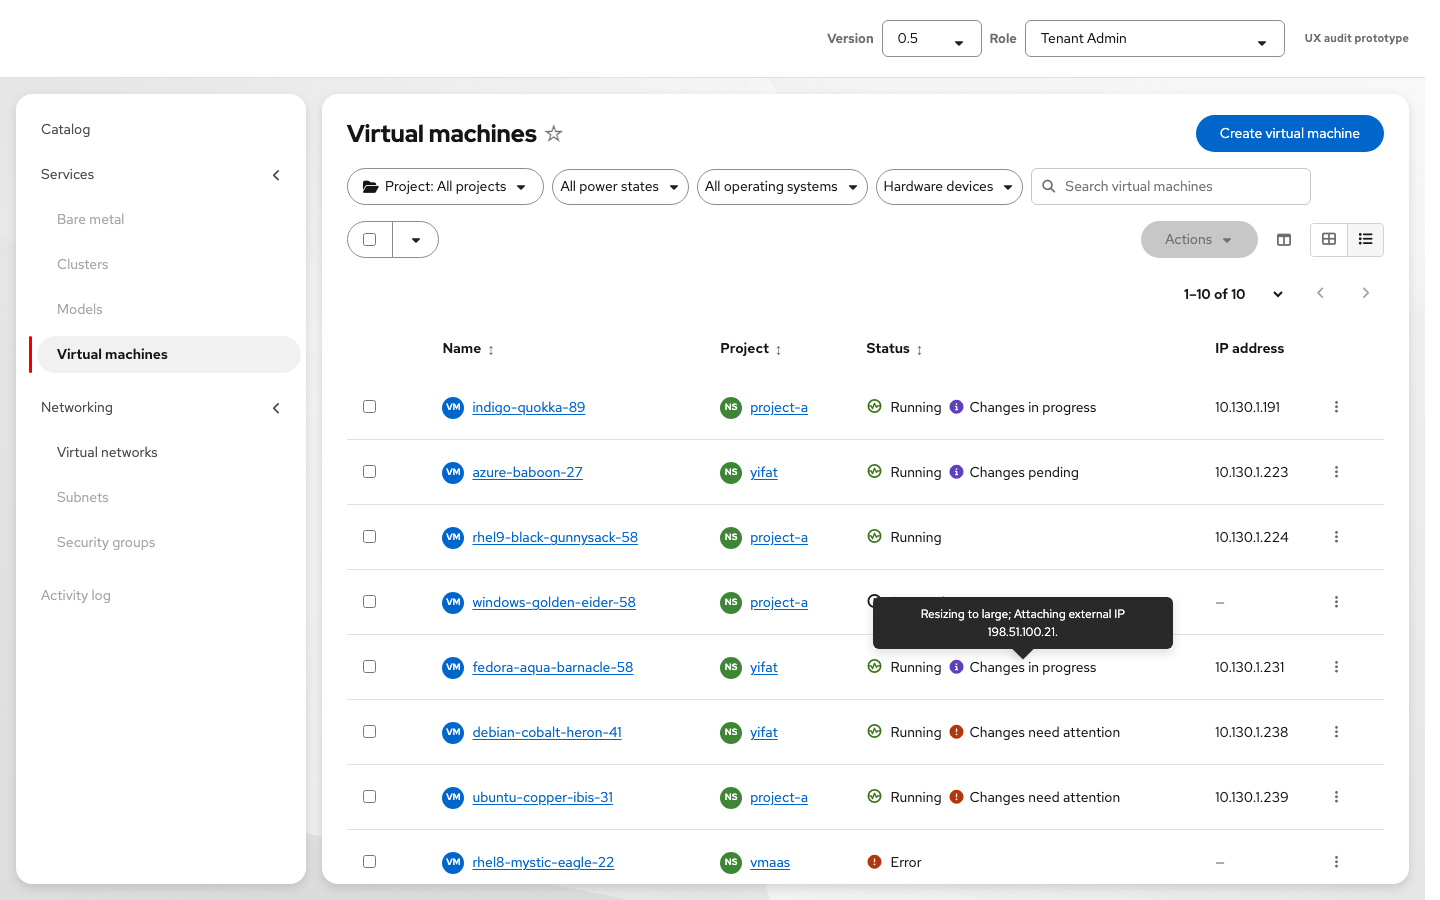
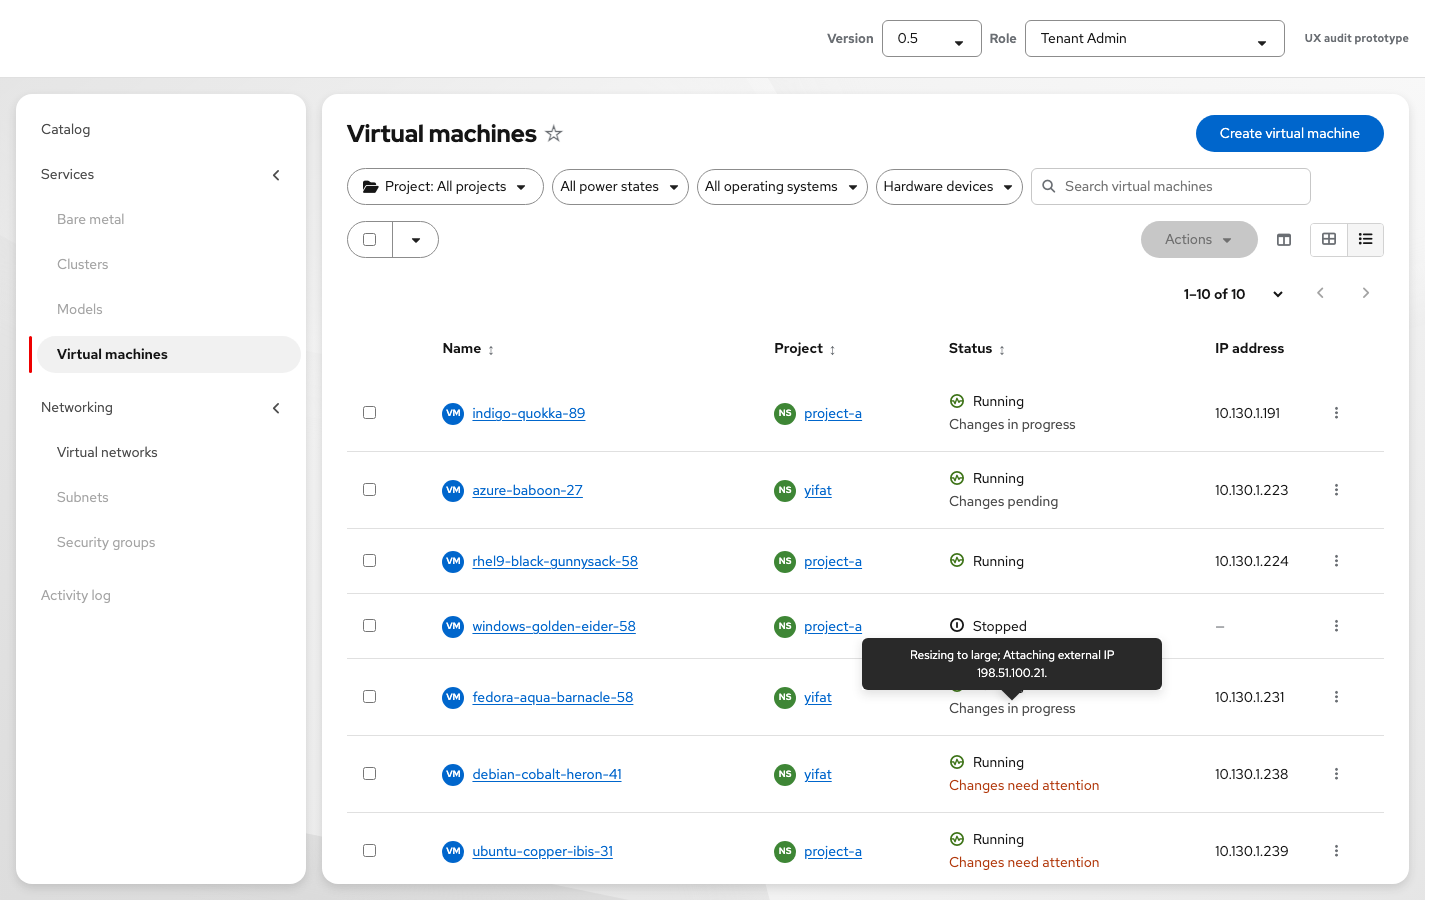
OSAC-7158: stack configuration status below power
Assisted-by: Cursor <cursoragent@cursor.com>

diff --git a/apps/app-frontend/public/vmaas-ux-prototype.html b/apps/app-frontend/public/vmaas-ux-prototype.html
@@ -1335,22 +1335,20 @@
     .vm-configuration-label {
       display: inline-flex;
       align-items: center;
-      gap: 6px;
-      color: var(--vmaas-text);
+      color: var(--pf-t--global--text--color--subtle, #6a6e73);
       font-size: 14px;
-      white-space: nowrap;
+      text-align: left;
     }
-    .vm-configuration-label__icon { color: var(--pf-t--global--icon--color--status--info--default, #0066cc); }
-    .vm-configuration-label--failed .vm-configuration-label__icon { color: var(--pf-t--global--icon--color--status--danger--default, #c9190b); }
+    .vm-configuration-label--failed { color: var(--pf-t--global--text--color--status--danger--default, #c9190b); }
     .vm-configuration-label:focus-visible {
       outline: 2px solid var(--vmaas-blue);
       outline-offset: 2px;
     }
     .vm-status-with-configuration {
       display: flex;
-      align-items: center;
-      flex-wrap: wrap;
-      gap: 8px;
+      align-items: flex-start;
+      flex-direction: column;
+      gap: 2px;
     }
     .vm-list-card__header-right {
       flex-wrap: wrap;
@@ -1358,9 +1356,9 @@
     }
     .vm-list-card__status-row {
       display: flex;
-      align-items: center;
-      flex-wrap: wrap;
-      gap: 8px 12px;
+      align-items: flex-start;
+      flex-direction: column;
+      gap: 2px;
       margin: 8px 0 12px;
     }
     .vm-restart-required__body {
@@ -9008,7 +9006,6 @@
       const tooltip = `${details.join('; ')}.`;
       return `<span class="vm-configuration-label${failed ? ' vm-configuration-label--failed' : ''}"
         data-pf-tooltip="${escAttr(tooltip)}" aria-label="${escAttr(`${label}. ${tooltip}`)}" tabindex="0">
-        <i class="fa-solid fa-circle-${failed ? 'exclamation' : 'info'} vm-configuration-label__icon" aria-hidden="true"></i>
         <span>${label}</span>
       </span>`;
     }

diff --git a/docs/osac-4281-vm-resize-handoff.md b/docs/osac-4281-vm-resize-handoff.md
@@ -27,11 +27,11 @@ Show Deprecated instance types as selectable options with a **Deprecated** label
 
 A success toast confirms the saved request. For a Running or Paused VM that requires restart, show a **Restart required** warning at the top of VM Overview in version 0.5. It is collapsed by default; expanding it explains that the VM must restart and shows the current → requested instance type, vCPUs, and memory. Do not repeat the restart message beside Instance type. Keep the VM's **active** instance type, vCPUs, and memory as the main configuration values, including the CPU and memory totals in Utilization. The 0.4 screenshots below retain the earlier layout for historical comparison.
 
-On the VM list, retain the normal power status (for example, Running). In 0.5, show one icon-and-text **Changes pending** status in the Status column while restart is required; its tooltip names the resize target and explains that a restart is needed. Cards show the same status near the power status. A Stopped VM's new size applies on its next start. The 0.4 screenshots below show the earlier **Resize scheduled** label beside the name.
+On the VM list, retain the normal power status (for example, Running). In 0.5, show one subdued gray, text-only **Changes pending** status on a second line in the Status column while restart is required; its tooltip names the resize target and explains that a restart is needed. Cards use the same placement below the power status. A Stopped VM's new size applies on its next start. The 0.4 screenshots below show the earlier **Resize scheduled** label beside the name.
 
 ## Resize in progress
 
-When the API reports that a resize is applying without a restart, keep **Running** as the VM power state. In 0.5, show one icon-and-text **Changes in progress** status with the power status in card and table views; its tooltip names the resize target and any other active configuration operation. VM Overview shows progress beside Instance type, including the requested type and any known retry attempt. Keep active values until the API confirms completion. The mockup uses `indigo-quokka-89` for this state.
+When the API reports that a resize is applying without a restart, keep **Running** as the VM power state. In 0.5, show one subdued gray, text-only **Changes in progress** status on a second line below the power status in card and table views; its tooltip names the resize target and any other active configuration operation. VM Overview shows progress beside Instance type, including the requested type and any known retry attempt. Keep active values until the API confirms completion. The mockup uses `indigo-quokka-89` for this state.
 
 After a restart with a scheduled resize, remove **Restart required** and show **Changes in progress** in lists while the resize is applying, even if the power state has returned to **Running**. In version 0.5, details show the operation beside Instance type. The mockup uses `fedora-aqua-barnacle-58` for this state; restarting `azure-baboon-27` also demonstrates the transition.
 
@@ -92,7 +92,7 @@ The API must expose or allow derivation of both active and requested configurati
 
 ![Version 0.5 resize progress beside Instance type after restart](screenshots/latest-ux/vm-config-inline-progress-0.5.png)
 
-**VM table.** This 0.4 screenshot shows the older resize-specific labels. In 0.5, the Status column uses one icon-and-text configuration status per VM.
+**VM table.** This 0.4 screenshot shows the older resize-specific labels. In 0.5, the Status column uses one text-only configuration status below the power status per VM.
 
 ![VM table with resize status labels and compact pagination](screenshots/latest-ux/vm-table.png)
 

diff --git a/docs/vm-overview-ux-handoff.md b/docs/vm-overview-ux-handoff.md
@@ -20,7 +20,7 @@ The [ubuntu-copper-ibis-31 example](https://osac-project.github.io/osac-ux/vmaas
 
 ![Version 0.5 mixed-operation status tooltip](screenshots/latest-ux/vm-config-status-tooltip-mixed-0.5.png)
 
-When a resize requires a restart, show a **Restart required** warning above Overview. It is collapsed by default; expanding it explains the required action and shows the current and requested instance type, vCPUs, and memory. Keep the current resource values in Configuration without repeating the warning there. This actionable warning is the exception to failure-only top alerts. In VM lists and cards, use icon-and-text statuses, rather than pill labels, for both power state and configuration state: **Changes pending**, **Changes in progress**, or **Changes need attention**. The configuration status tooltip names each relevant operation and target, including external-IP attachment. Remove it once no work is outstanding.
+When a resize requires a restart, show a **Restart required** warning above Overview. It is collapsed by default; expanding it explains the required action and shows the current and requested instance type, vCPUs, and memory. Keep the current resource values in Configuration without repeating the warning there. This actionable warning is the exception to failure-only top alerts. In VM lists and cards, show one text-only configuration status on a second line below the icon-and-text power status: subdued gray **Changes pending** or **Changes in progress**, or **Changes need attention** in the failure color. Do not add an icon to the configuration status. The tooltip names each relevant operation and target, including external-IP attachment. Remove it once no work is outstanding.
 
 ![Version 0.5 collapsed top restart warning](screenshots/latest-ux/vm-config-restart-0.5.png)
 
@@ -28,9 +28,9 @@ When a resize requires a restart, show a **Restart required** warning above Over
 
 The VM list uses compact PatternFly pagination in card and table views: an item-range dropdown plus Previous and Next above and below the results.
 
-![Version 0.5 VM cards with icon-and-text statuses](screenshots/latest-ux/vm-config-status-cards-0.5.png)
+![Version 0.5 VM cards with configuration status below power status](screenshots/latest-ux/vm-config-status-cards-0.5.png)
 
-![Version 0.5 VM table with icon-and-text statuses](screenshots/latest-ux/vm-config-status-table-0.5.png)
+![Version 0.5 VM table with configuration status below power status](screenshots/latest-ux/vm-config-status-table-0.5.png)
 
 ![Version 0.5 configuration status tooltip](screenshots/latest-ux/vm-config-status-tooltip-0.5.png)
 

diff --git a/docs/tenant-networking-ux-handoff.md b/docs/tenant-networking-ux-handoff.md
@@ -16,7 +16,7 @@ The **External IP** heading is sufficient; do not add a Host label or empty plac
 
 In version **0.5** (OSAC-7158), show attachment progress beside External IP and keep **Attach external IP** visible but disabled while it runs. Name the selected address and show a known later attempt on a separate subdued line. Reserve the top-of-page danger alert for failure. Say **No automatic retry is scheduled** only when that is known; it does not prevent the user from starting a new attachment. The failed address must not appear as an attached IP. After failure, offer **Attach external IP** so the user can select an address again; do not offer Detach because no address was attached.
 
-In the VM list and cards, external-IP work contributes to one icon-and-text configuration status alongside the power status. Use **Changes in progress** while attaching or **Changes need attention** if attachment failed; the tooltip names the operation and selected address.
+In the VM list and cards, external-IP work contributes to one configuration status on a second line below the power status. Use subdued gray **Changes in progress** while attaching, or **Changes need attention** if attachment failed. Do not add an icon to the configuration status. The tooltip names the operation and selected address.
 
 If resize has failed while attachment continues, the top alert describes the resize failure, attachment progress stays beside External IP, and the list tooltip names both. See the [mixed-operation example](https://osac-project.github.io/osac-ux/vmaas-ux-prototype.html?v=20261119-osac7158-audit&role=admin&vm=ubuntu-copper-ibis-31).
 
